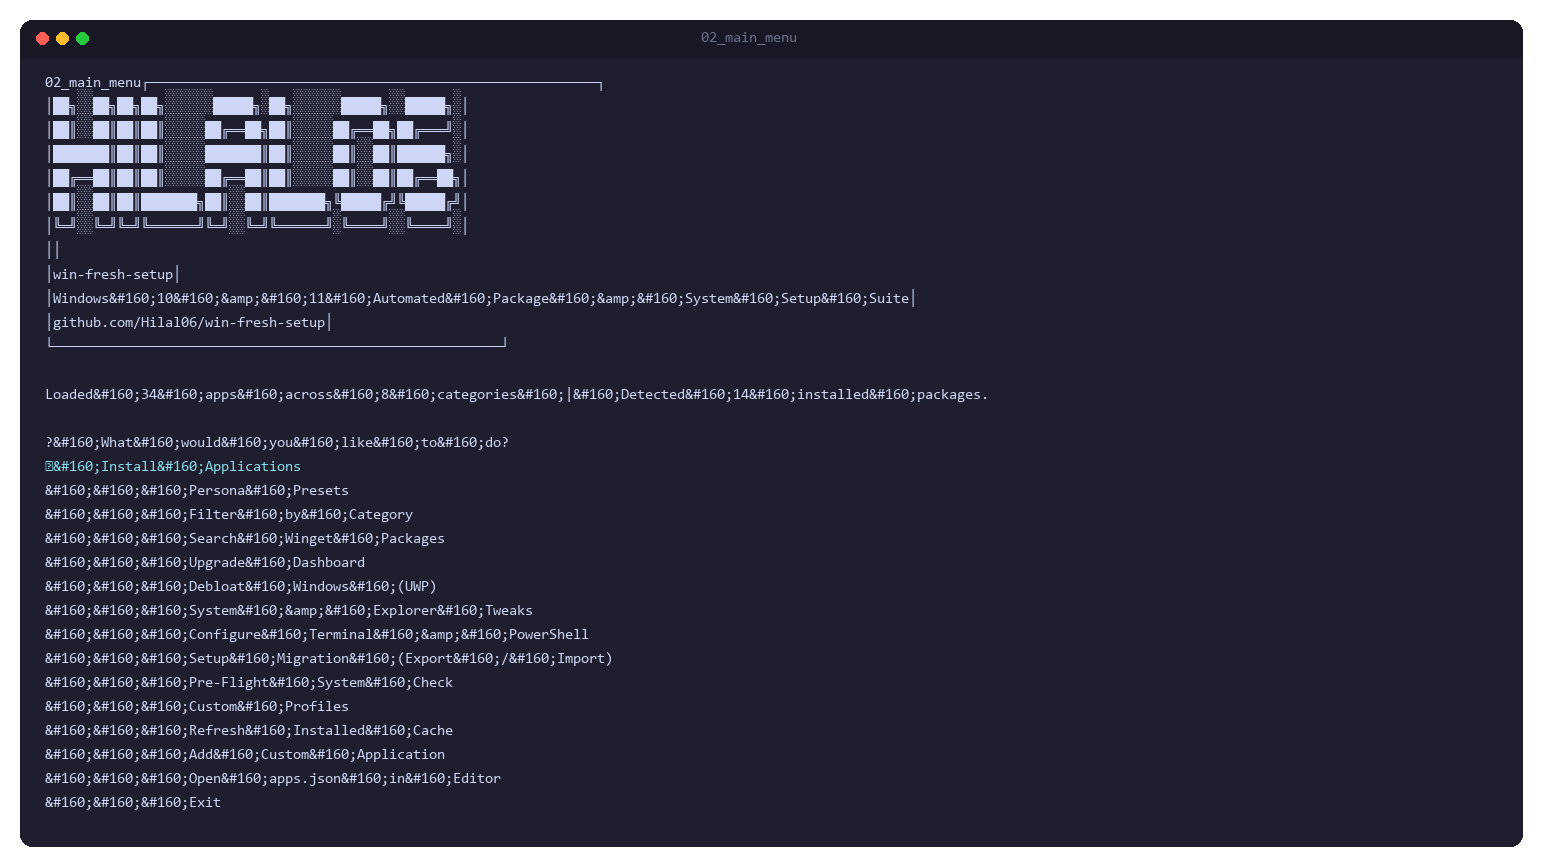
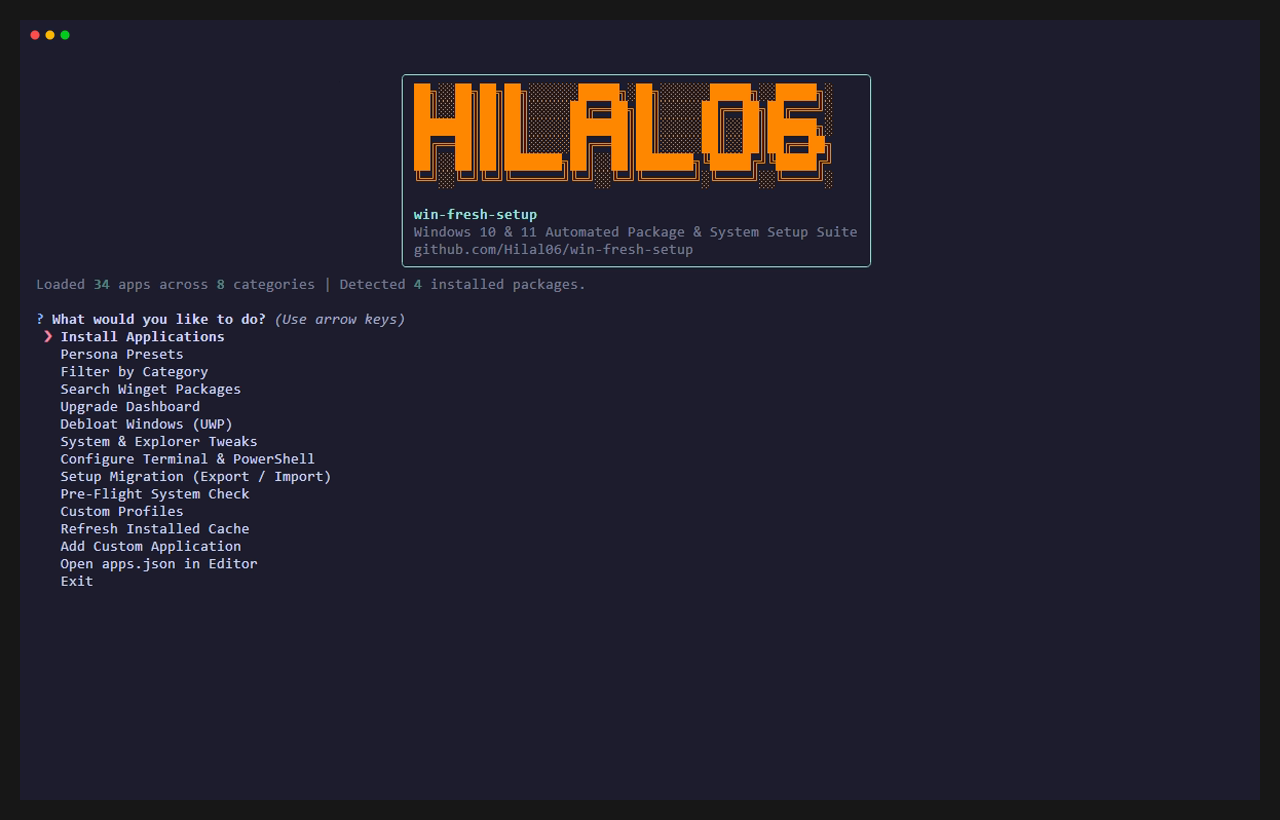
docs(demo): capture real in-app screenshots directly via VHS
- Replace simulated SVG/PIL renders with authentic terminal captures taken directly from the running project via VHS
- Add demo_screenshots.tape capturing all 8 feature views directly from vhs_runner.py
- Ensure visual parity between showcase GIF and documentation screenshots

Changed region(s): [[0.0, 0.0, 1.0, 1.0]]

diff --git a/demo/vhs_runner.py b/demo/vhs_runner.py
@@ -21,6 +21,8 @@ if REPO_ROOT not in sys.path:
     sys.path.insert(0, REPO_ROOT)
 
 import installer
+import tweaks
+import debloat
 from rich.panel import Panel
 
 # 1. Simulate Elevated Administrator Session in memory (no UAC prompt pop-up)
@@ -47,23 +49,77 @@ installer.run_winget_install = simulated_winget_install
 
 if __name__ == "__main__":
     installer.ensure_dirs()
-    if len(sys.argv) > 1 and sys.argv[1] == "--elevation":
-        installer.is_admin = lambda: False
-        installer.print_banner()
-        installer.CONSOLE.print(
-            Panel(
-                "[bold yellow][!] Hak Akses Administrator Diwajibkan[/bold yellow]\n\n"
-                "Installer saat ini berjalan sebagai [bold cyan]Standard User[/bold cyan].\n\n"
-                "Fitur seperti instalasi paket, registry tweaks, debloater, dan shell booster "
-                "memerlukan hak akses [bold green]Administrator[/bold green] penuh agar dapat bekerja optimal.\n\n"
-                "[bold cyan][*] Membuka sesi Administrator via UAC... Silakan klik 'Yes' pada jendela konfirmasi.[/bold cyan]",
-                title="[bold yellow]Auto-Elevation[/bold yellow]",
-                border_style="yellow",
-                padding=(1, 2)
+    
+    if len(sys.argv) > 2 and sys.argv[1] == "--screen":
+        screen = sys.argv[2]
+        apps = installer.load_apps()
+        installed_set = set(MOCK_INSTALLED)
+        
+        if screen == "elevation":
+            installer.is_admin = lambda: False
+            installer.print_banner()
+            installer.CONSOLE.print(
+                Panel(
+                    "[bold yellow][!] Hak Akses Administrator Diwajibkan[/bold yellow]\n\n"
+                    "Installer saat ini berjalan sebagai [bold cyan]Standard User[/bold cyan].\n\n"
+                    "Fitur seperti instalasi paket, registry tweaks, debloater, dan shell booster "
+                    "memerlukan hak akses [bold green]Administrator[/bold green] penuh agar dapat bekerja optimal.\n\n"
+                    "[bold cyan][*] Membuka sesi Administrator via UAC... Silakan klik 'Yes' pada jendela konfirmasi.[/bold cyan]",
+                    title="[bold yellow]Auto-Elevation[/bold yellow]",
+                    border_style="yellow",
+                    padding=(1, 2)
+                )
             )
-        )
-        installer.CONSOLE.print("\n[bold cyan][*] Membuka jendela Administrator baru...[/bold cyan]")
-        time.sleep(10)
-        sys.exit(0)
+            installer.CONSOLE.print("\n[bold cyan][*] Membuka jendela Administrator baru...[/bold cyan]")
+            installer.CONSOLE.print("[dim]Prompt UAC Windows terpicu secara otomatis. Sesi non-administrator akan ditutup setelah elevasi disetujui.[/dim]")
+            time.sleep(60)
+            sys.exit(0)
+
+        elif screen == "select_apps":
+            installer.print_banner()
+            choices = installer.build_choices(apps, installed_set=installed_set)
+            instruction_text = "(Space to select/deselect, 'a' to toggle all, 'i' to invert, Enter to confirm)"
+            installer.questionary.checkbox(
+                "Select applications to install:",
+                choices=choices,
+                instruction=instruction_text,
+                style=installer.CUSTOM_STYLE
+            ).ask()
+            sys.exit(0)
+
+        elif screen == "presets":
+            installer.handle_presets_menu(apps, installed_set)
+            sys.exit(0)
+
+        elif screen == "debloat":
+            installer.handle_debloat_menu()
+            sys.exit(0)
+
+        elif screen == "tweaks":
+            installer.print_banner()
+            installer.CONSOLE.print("[bold cyan]=== System & Explorer Tweaks ===[/bold cyan]\n")
+            tweak_choices = []
+            for t in tweaks.TWEAKS_LIST:
+                display_title = f"{t['name']} - [dim]{t['description']}[/dim]"
+                tweak_choices.append(installer.Choice(
+                    title=display_title,
+                    value=t["id"],
+                    checked=t.get("default", False)
+                ))
+            installer.questionary.checkbox(
+                "Select Tweaks to apply to Windows:",
+                choices=tweak_choices,
+                instruction="(Space: toggle, Enter: apply, Ctrl+C: back)",
+                style=installer.CUSTOM_STYLE
+            ).ask()
+            sys.exit(0)
+
+        elif screen == "shell_booster":
+            installer.handle_shell_booster_menu()
+            sys.exit(0)
+
+        elif screen == "preflight":
+            installer.handle_preflight_check()
+            sys.exit(0)
 
     installer.main_menu()
